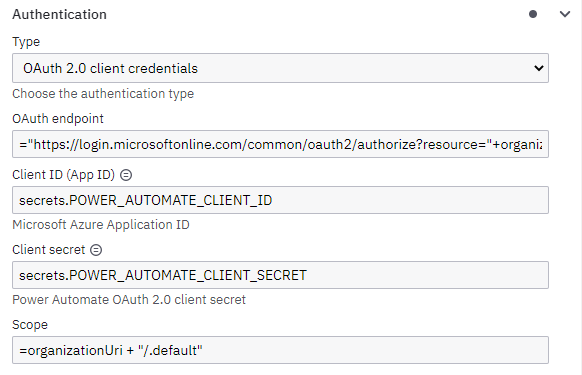
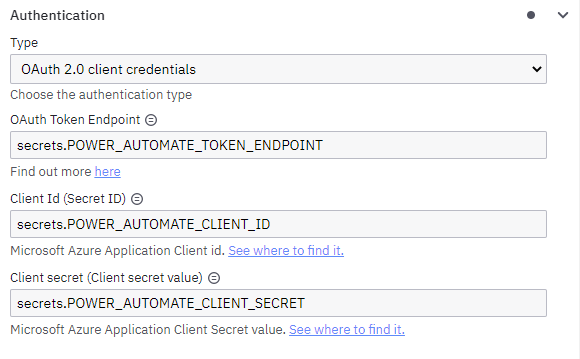
fix(connectors): fix Power Automate documentation to describe the new OAuth flow

diff --git a/docs/components/connectors/out-of-the-box-connectors/power-automate.md b/docs/components/connectors/out-of-the-box-connectors/power-automate.md
@@ -11,12 +11,10 @@ The **Power Automate Connector** allows you to orchestrate a Power Automate flow
 To use the Power Automate Connector, you need to have several things to be set up:
 
 1. [Azure AD application](https://portal.azure.com) with proper permissions. Visit the [official documentation](https://learn.microsoft.com/en-us/power-apps/developer/data-platform/walkthrough-register-app-azure-active-directory#create-an-application-registration) to see how you can create one.
-2. A security role in [Power Platform](https://admin.powerplatform.microsoft.com/). [See the documentation](https://learn.microsoft.com/en-us/power-platform/admin/database-security#create-or-configure-a-custom-security-role)
-3. A Dataverse application user. [See how to create it](https://learn.microsoft.com/en-us/power-apps/developer/data-platform/authenticate-oauth#manually-create-a-dataverse-application-user)
-4. [Power App Environment](https://learn.microsoft.com/en-us/power-platform/admin/environments-overview). You need to create an Environment to establish a connection between your Desktop App and the cloud.
-5. [Power Automate desktop application](https://learn.microsoft.com/en-us/power-automate/desktop-flows/install). You need to download the desktop app and sign in to create your Power Automate Flow.
-6. [Power Automate machine runtime desktop application](https://learn.microsoft.com/en-us/power-automate/desktop-flows/manage-machines#register-a-new-machine). You need this application to manage and troubleshoot machine settings, and enable the On-premise data gateway to access your machine data.
-7. Power Automate [On-premises data gateway desktop application](https://learn.microsoft.com/en-us/power-automate/desktop-flows/install#install-an-on-premises-data-gateway) to create a connection between the cloud environment and your desktop app.
+2. [Create an application user](https://learn.microsoft.com/en-us/power-platform/admin/manage-application-users#create-an-application-user) and add security roles.
+3. [Power Automate desktop application](https://learn.microsoft.com/en-us/power-automate/desktop-flows/install). You need to download the desktop app and sign in to create your Power Automate Flow.
+4. [Power Automate machine runtime desktop application](https://learn.microsoft.com/en-us/power-automate/desktop-flows/manage-machines#register-a-new-machine). You need this application to manage and troubleshoot machine settings, and enable the On-premise data gateway to access your machine data.
+5. Power Automate [On-premises data gateway desktop application](https://learn.microsoft.com/en-us/power-automate/desktop-flows/install#install-an-on-premises-data-gateway) to create a connection between the cloud environment and your desktop app.
 
 ## Create a Power Automate Connector task
 
@@ -66,11 +64,17 @@ We advise you to keep your **Client ID** safe and avoid exposing it in the BPMN 
 Select the **Power Automate Connector** and fill out the following properties under the **Authentication** section:
 
 1. Click **OAuth 2.0** in the **Authentication** section.
-2. Set **Client ID** to the secret you created (i.e. `secrets.POWER_AUTOMATE_CLIENT_ID`).
+2. Set **Client Id** to the secret you created (i.e. `secrets.POWER_AUTOMATE_CLIENT_ID`).
 3. Set **Client secret** to the secret you created (i.e. `secrets.POWER_AUTOMATE_CLIENT_SECRET`).
-4. Set **Scope** to the secret you created or specify it (i.e. `secrets.POWER_AUTOMATE_SCOPE` or `https://org1a1aa111.api.crm4.dynamics.com/.default`).
+4. Set **OAuth Token Endpoint** to the secret you created (i.e. `secrets.POWER_AUTOMATE_TOKEN_ENDPOINT`).
 
 ![Power Automate Connector oauth token](../img/connectors-power-automate-oauth-token.png)
+
+##### OAuth Token Endpoint
+
+You should provide the **OAuth Token Endpoint** in the following format: https://login.microsoftonline.com/{tanantID}/oauth2/v2.0/token
+
+[This documentation](https://learn.microsoft.com/en-us/azure/active-directory/fundamentals/active-directory-how-to-find-tenant#find-tenant-id-through-the-azure-portal) describes how you can find your _tenantID_.
 
 ### Trigger a flow run
 
@@ -123,7 +127,7 @@ For this section, you must fill out the following fields:
 4. **Run mode**: Choose between attended or unattended.
 5. **Run priority**: Choose an option (normal, high) or add your own.
 6. _(Optional)_ **Inputs**: The desktop flow script input parameters (json serialized string).
-7. _(Optional)_ **Callback URL**: URL that will be called once the desktop flow script is complete.
+7. _(Optional)_ **Callback URL**: URL that will be called once the desktop flow script is complete. [See how to use the Webhook connector](#using-webhook-connector-as-callback-endpoint) as a callback endpoint.
 
 ### Get the status of a flow run
 
@@ -148,6 +152,39 @@ You can use an output mapping to map the response:
 1. Use **Result Variable** to store the response in a process variable. For example, `myResultVariable`.
 2. Use **Result Expression** to map fields from the response into process variables. It comes with a pre-filled value of `= {statusCode: response.body.statuscode}`.
 
+Response example:
+
+```
+= {
+    "@odata.context": "https://[Organization URI]/api/data/v9.2/$metadata#flowsessions(statuscode,statecode,startedon,completedon)/$entity",
+    "@odata.etag": "W1276122",
+    "statuscode": 4,
+    "statecode": 0,
+    "startedon": "2022-06-16T12:54:40Z",
+    "completedon": "2022-06-16T12:57:46Z",
+}
+```
+
+Meaning of the different status codes based on the [official documentation](https://learn.microsoft.com/en-us/power-apps/developer/data-platform/reference/entities/flowsession#statuscode-choicesoptions):
+
+| Status | Statuscode   |
+| ------ | ------------ |
+| 0      | NotSpecified |
+| 1      | Paused       |
+| 2      | Running      |
+| 3      | Waiting      |
+| 4      | Succeeded    |
+| 5      | Skipped      |
+| 6      | Suspended    |
+| 7      | Cancelled    |
+| 8      | Failed       |
+| 9      | Faulted      |
+| 10     | TimedOut     |
+| 11     | Aborted      |
+| 12     | Ignored      |
+| 13     | Deleted      |
+| 14     | Terminated   |
+
 ### Get flow outputs
 
 The operation **Get flow outputs** returns the output of the triggered Power Automate flow.
@@ -171,6 +208,14 @@ You can use an output mapping to map the response:
 1. Use **Result Variable** to store the response in a process variable. For example, `myResultVariable`.
 2. Use **Result Expression** to map fields from the response into process variables. It comes with a pre-filled value of `= {flowOutputs: response.body}`.
 
+Response example:
+
+```
+= {
+    "Output1": "My output value"
+}
+```
+
 ## Appendix
 
 ### Using Power Automate Connector best practice
@@ -183,11 +228,9 @@ If you wish to continue the Camunda process or start a new one, the [Webhook Con
 1. Create a [Webhook Connector](./http-webhook.md) and specify the **Webhook ID**.
 2. Create a Power [Automate connector](./power-automate.md), select the **Trigger a flow run** method, fill in the fields.
 
-   If you use Camunda 8 Saas you can use the following pattern for the **Callback URL**: `{zeebe.client.cloud.region}.{zeebeHostUrl}/{zeebe.client.cloud.clusterId}/inbound/{webhookId}`.
+   If you use Camunda 8 SaaS you can use the following pattern for the **Callback URL**: `{zeebe.client.cloud.region}.{zeebeHostUrl}/{zeebe.client.cloud.clusterId}/inbound/{webhookId}`.
 
-   For example: `https://bru-3.connectors.camunda.io/0100101a-11a1-1111-a1a1-1a1a11a11111/inbound/a1aa1aa1-a111-1111-a1aa-1111aa1a1a11`.
-
-   If you use Camunda 8 Saas you can find the zeebe specific values in you cluster details on the _API_ tab under _Client Credentials_. The _webhookId_ is the id you specified in the first step, and the _zeebeHostUrl_ is connectors.camunda.io.
+   If you use Camunda 8 SaaS you can find the zeebe specific values in you cluster details on the _API_ tab under _Client Credentials_. The _webhookId_ is the id you specified in the first step, and the _zeebeHostUrl_ is connectors.camunda.io.
 
    ![Power Automate Connector - Azure AD app allow implicit flow](../img/connectors-power-automate-cluster-api-credentials.png)
 
